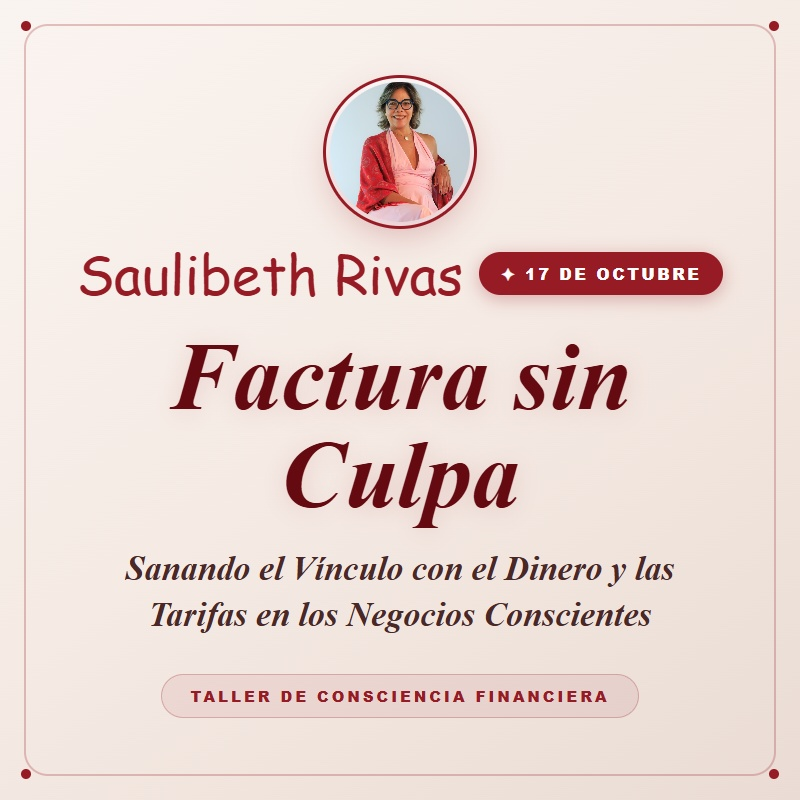
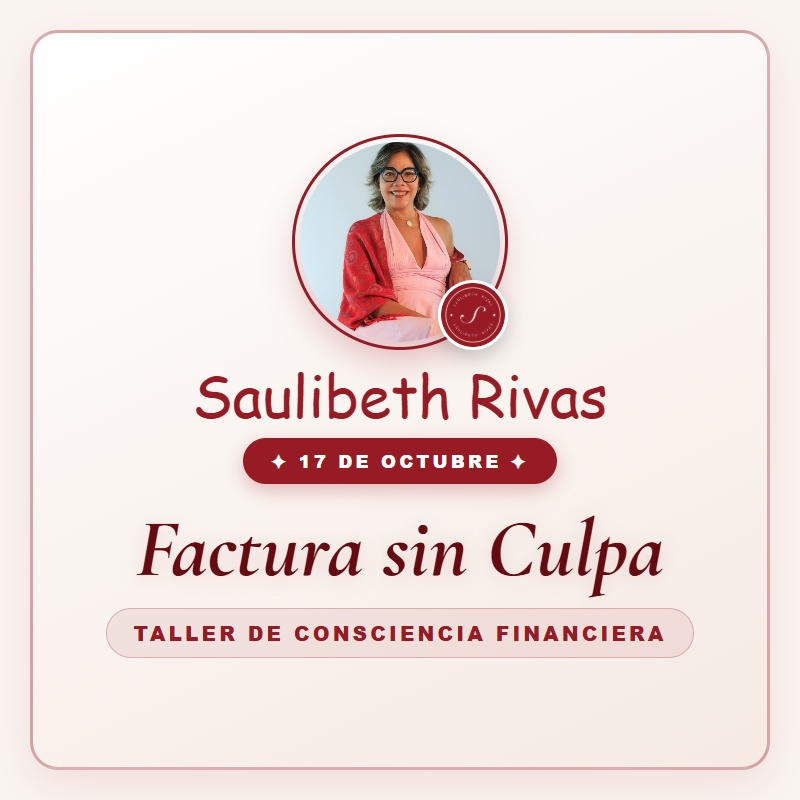
fix: unificar imagen en formato cuadrado 1:1 para evitar recorte y desenfoque en WhatsApp

Changed region(s): [[0.0312, 0.0312, 1.0, 1.0], [0.1875, 0.8438, 0.8125, 0.9062]]

diff --git a/index.html b/index.html
@@ -23,7 +23,7 @@
     <!-- Schema.org Microdata para WhatsApp y Motores de Búsqueda -->
     <meta itemprop="name" content="Factura sin Culpa — Taller con Saulibeth Rivas · 17 de Octubre">
     <meta itemprop="description" content="Sana el vínculo con el dinero y las tarifas en negocios conscientes. Taller en vivo el 17 de Octubre con Saulibeth Rivas.">
-    <meta itemprop="image" content="https://factura-sin-culpa.vercel.app/assets/og-whatsapp.jpg">
+    <meta itemprop="image" content="https://factura-sin-culpa.vercel.app/assets/og-image.jpg">
 
     <!-- Previsualización de Redes Sociales (WhatsApp, Facebook, Twitter/X, Telegram) -->
     <meta property="og:type" content="website">
@@ -34,24 +34,18 @@
     <meta property="og:url" content="https://factura-sin-culpa.vercel.app/">
     <meta property="og:locale" content="es_ES">
 
-    <!-- WhatsApp Primera Imagen (Cuadrada 800x800 segura para chat móvil) -->
-    <meta property="og:image" content="https://factura-sin-culpa.vercel.app/assets/og-whatsapp.jpg">
-    <meta property="og:image:secure_url" content="https://factura-sin-culpa.vercel.app/assets/og-whatsapp.jpg">
+    <!-- Imagen Oficial Cuadrada de Alta Definición (1:1 perfecta para WhatsApp) -->
+    <meta property="og:image" content="https://factura-sin-culpa.vercel.app/assets/og-image.jpg">
+    <meta property="og:image:secure_url" content="https://factura-sin-culpa.vercel.app/assets/og-image.jpg">
     <meta property="og:image:type" content="image/jpeg">
     <meta property="og:image:width" content="800">
     <meta property="og:image:height" content="800">
     <meta property="og:image:alt" content="Factura sin Culpa — Taller 17 de Octubre con Saulibeth Rivas">
-    <link rel="image_src" href="https://factura-sin-culpa.vercel.app/assets/og-whatsapp.jpg">
+    <link rel="image_src" href="https://factura-sin-culpa.vercel.app/assets/og-image.jpg">
+    <meta itemprop="image" content="https://factura-sin-culpa.vercel.app/assets/og-image.jpg">
 
-    <!-- Segunda Imagen (Panorámica 1200x630 para Twitter / Facebook / LinkedIn) -->
-    <meta property="og:image" content="https://factura-sin-culpa.vercel.app/assets/og-image.jpg">
-    <meta property="og:image:secure_url" content="https://factura-sin-culpa.vercel.app/assets/og-image.jpg">
-    <meta property="og:image:type" content="image/jpeg">
-    <meta property="og:image:width" content="1200">
-    <meta property="og:image:height" content="630">
-
-    <!-- Twitter Card -->
-    <meta name="twitter:card" content="summary_large_image">
+    <!-- Twitter Card (Formato cuadrado consistente) -->
+    <meta name="twitter:card" content="summary">
     <meta name="twitter:title" content="Factura sin Culpa — Taller con Saulibeth Rivas · 17 de Octubre">
     <meta name="twitter:description"
         content="Sana el vínculo con el dinero y las tarifas en negocios conscientes. Taller en vivo el 17 de Octubre con Saulibeth Rivas.">
